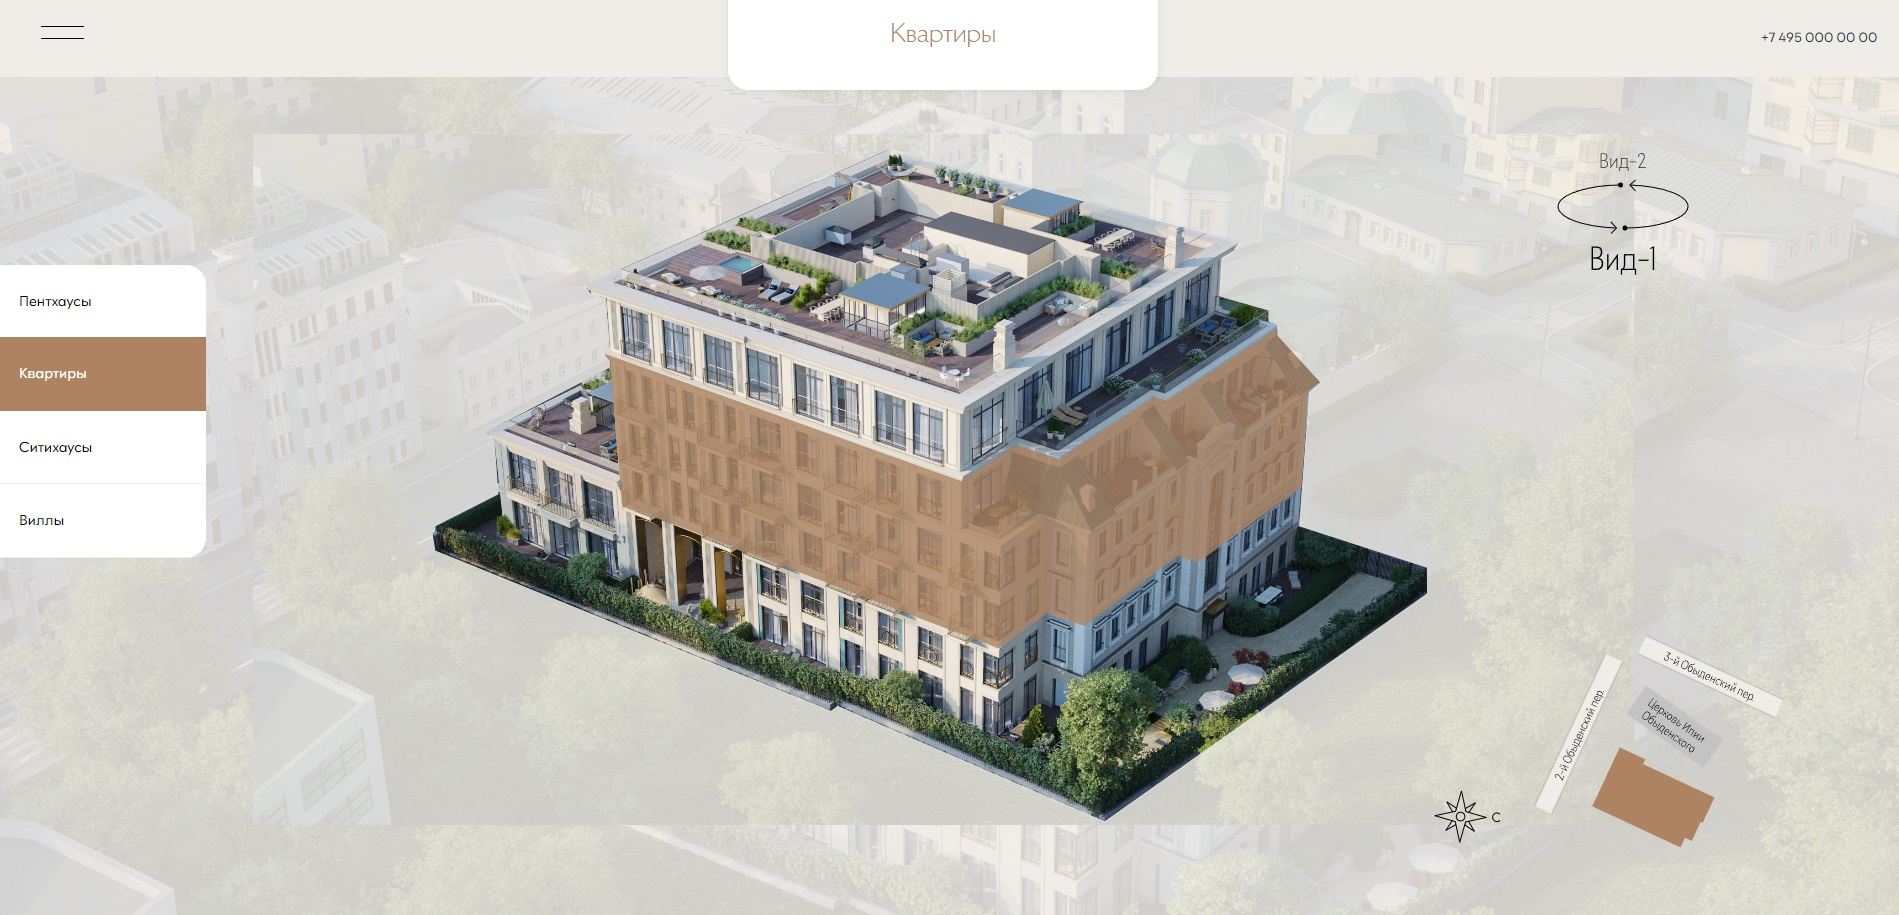
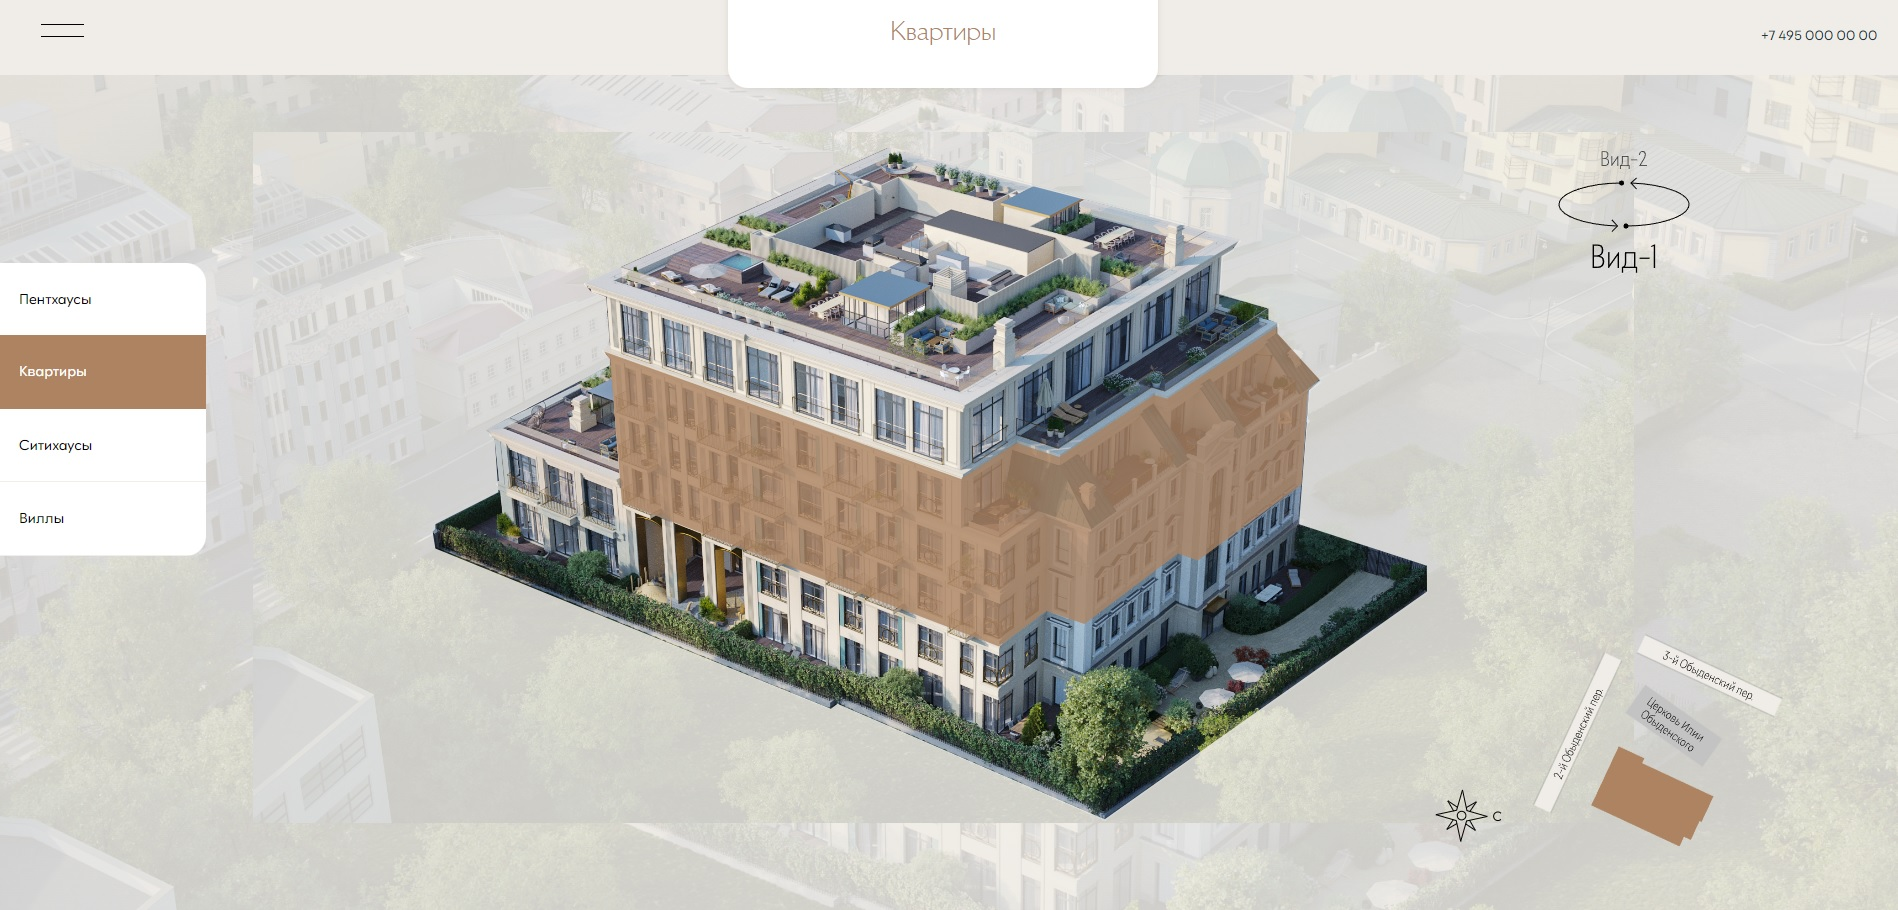
Introduced certain visual improvements

diff --git a/src/components/Navigation/Navigation.scss b/src/components/Navigation/Navigation.scss
@@ -1,7 +1,7 @@
 .navigation {
   position: absolute;
   left: 0px;
-  top: 29%;
+  top: 267px;
   width: 207px;
   display: flex;
   flex-direction: column;
@@ -18,7 +18,7 @@
   }
 
   &__item {
-    padding: 10px 20px;
+    padding: 0px 20px;
     font-family: Galatea;
     font-size: 15px;
     color: #000000;
@@ -42,8 +42,8 @@
 
 @media (max-width: 1024px) {
   .navigation {
-    top: 15%;
-    width: 157px;
+    top: 200px;
+    width: 150px;
   }
   .navigation__item {
     font-size: 12px;
@@ -52,8 +52,7 @@
 
 @media (max-width: 768px) {
   .navigation {
-    top: 15%;
-    width: 150px;
+    top: 150px;
   }
   .navigation__item {
     font-size: 10px;
@@ -62,11 +61,21 @@
 
 @media (max-width: 768px) {
   .navigation {
-    top: 20%;
-    width: 50px;
+    width: 100px;
   }
   .navigation__item {
     font-size: 7px;
-    padding: 5px 10px;
+    padding: 0px 10px;
+  }
+}
+
+@media (max-width: 425px) {
+  .navigation {
+    width: 75px;
+    top: 100px;
+  }
+  .navigation__item {
+    font-size: 7px;
+    padding: 0px 10px;
   }
 }

diff --git a/src/components/MainPage/MainPage.scss b/src/components/MainPage/MainPage.scss
@@ -162,7 +162,23 @@
 
   .img-box_view2 {
     transform: scale(0.6);
-    transform-origin: 40% 0px;
+    transform-origin: 44% 0px;
+  }
+
+  .cover_view1 {
+    display: none;
+  }
+
+  .building-img-back_view1 {
+    display: none;
+  }
+
+  .cover_view2 {
+    display: none;
+  }
+
+  .building-img-back_view2 {
+    display: none;
   }
 }
 
@@ -181,11 +197,11 @@
 @media (max-width: 425px) {
   .img-box_view1 {
     transform: scale(0.24);
-    transform-origin: 6% 0px;
+    transform-origin: 16% 0px;
   }
 
   .img-box_view2 {
     transform: scale(0.24);
-    transform-origin: 12% 0px;
+    transform-origin: 30% 0px;
   }
 }
